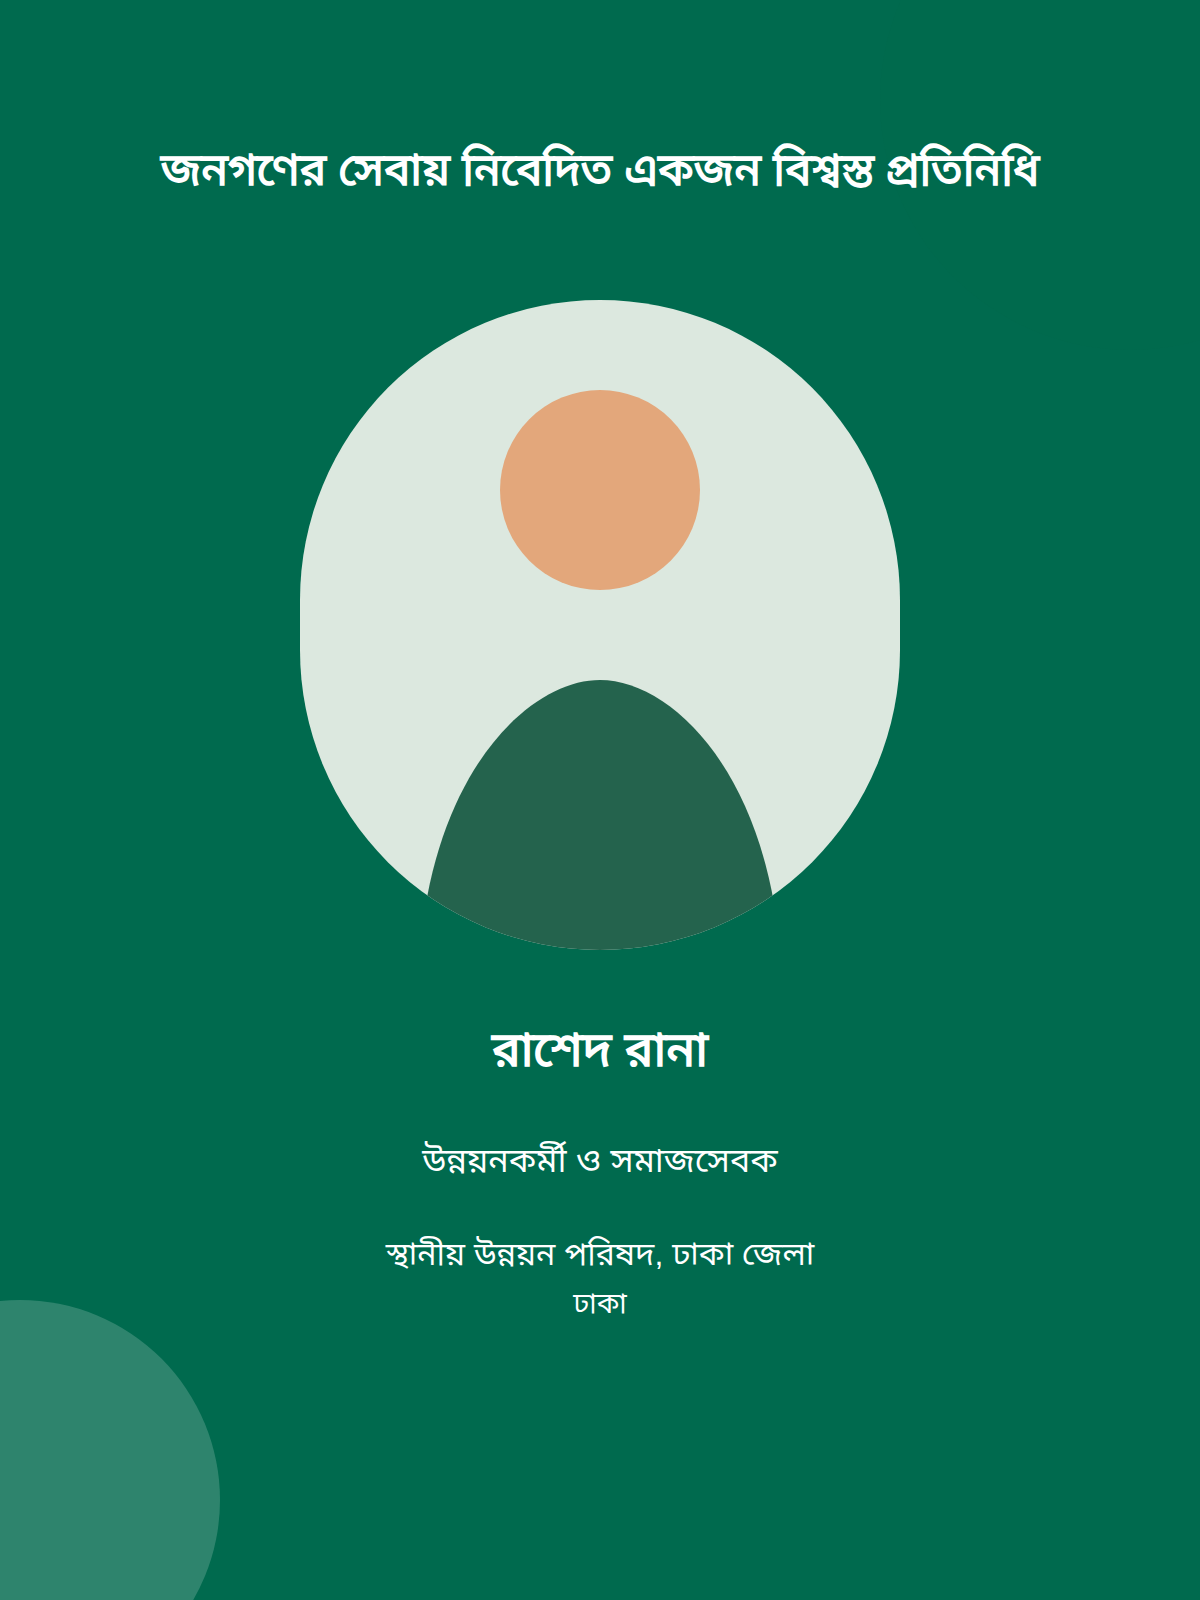
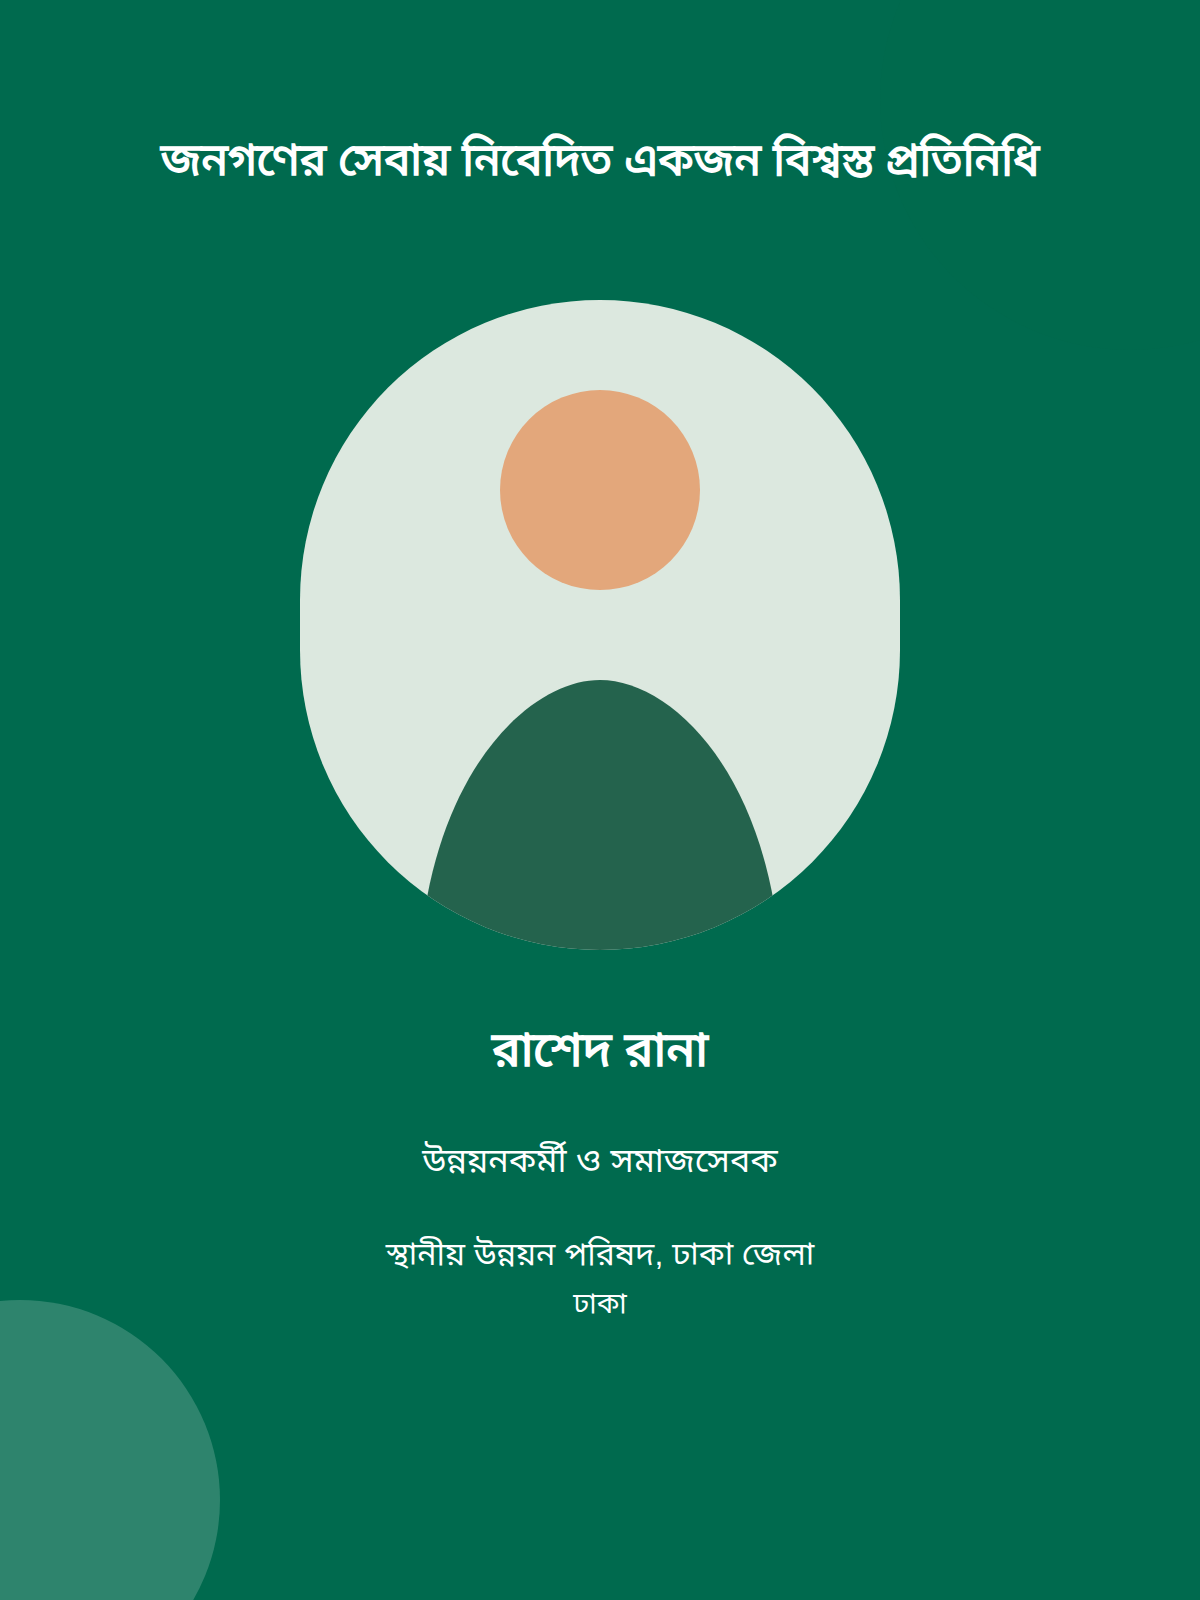
fix: handle optional layout in headline positioning logic

Changed region(s): [[0.1233, 0.0625, 0.8633, 0.125]]

diff --git a/server/src/services/poster-renderer.service.ts b/server/src/services/poster-renderer.service.ts
@@ -195,27 +195,29 @@ export const renderPoster = async ({
         };
       }
 
-      if (slot.type !== "headline" || !layout) {
+      if (slot.type !== "headline") {
         return slot;
       }
 
-      const position = layout.headlinePosition;
-      const align: TextSlot["align"] =
-        position === "top-center"
+      const position = layout?.headlinePosition;
+      const align: TextSlot["align"] = position
+        ? position === "top-center"
           ? "center"
           : position === "top-left"
             ? "left"
-            : "right";
+            : "right"
+        : slot.align;
       const width = Math.min(slot.width, 1040);
 
       return {
         ...slot,
-        x:
-          position === "top-left"
+        x: position
+          ? position === "top-left"
             ? 80
             : position === "top-right"
               ? 1200 - width - 80
-              : 80,
+              : 80
+          : slot.x,
         y: slot.width >= 700 ? 70 : slot.y,
         width,
         align,
